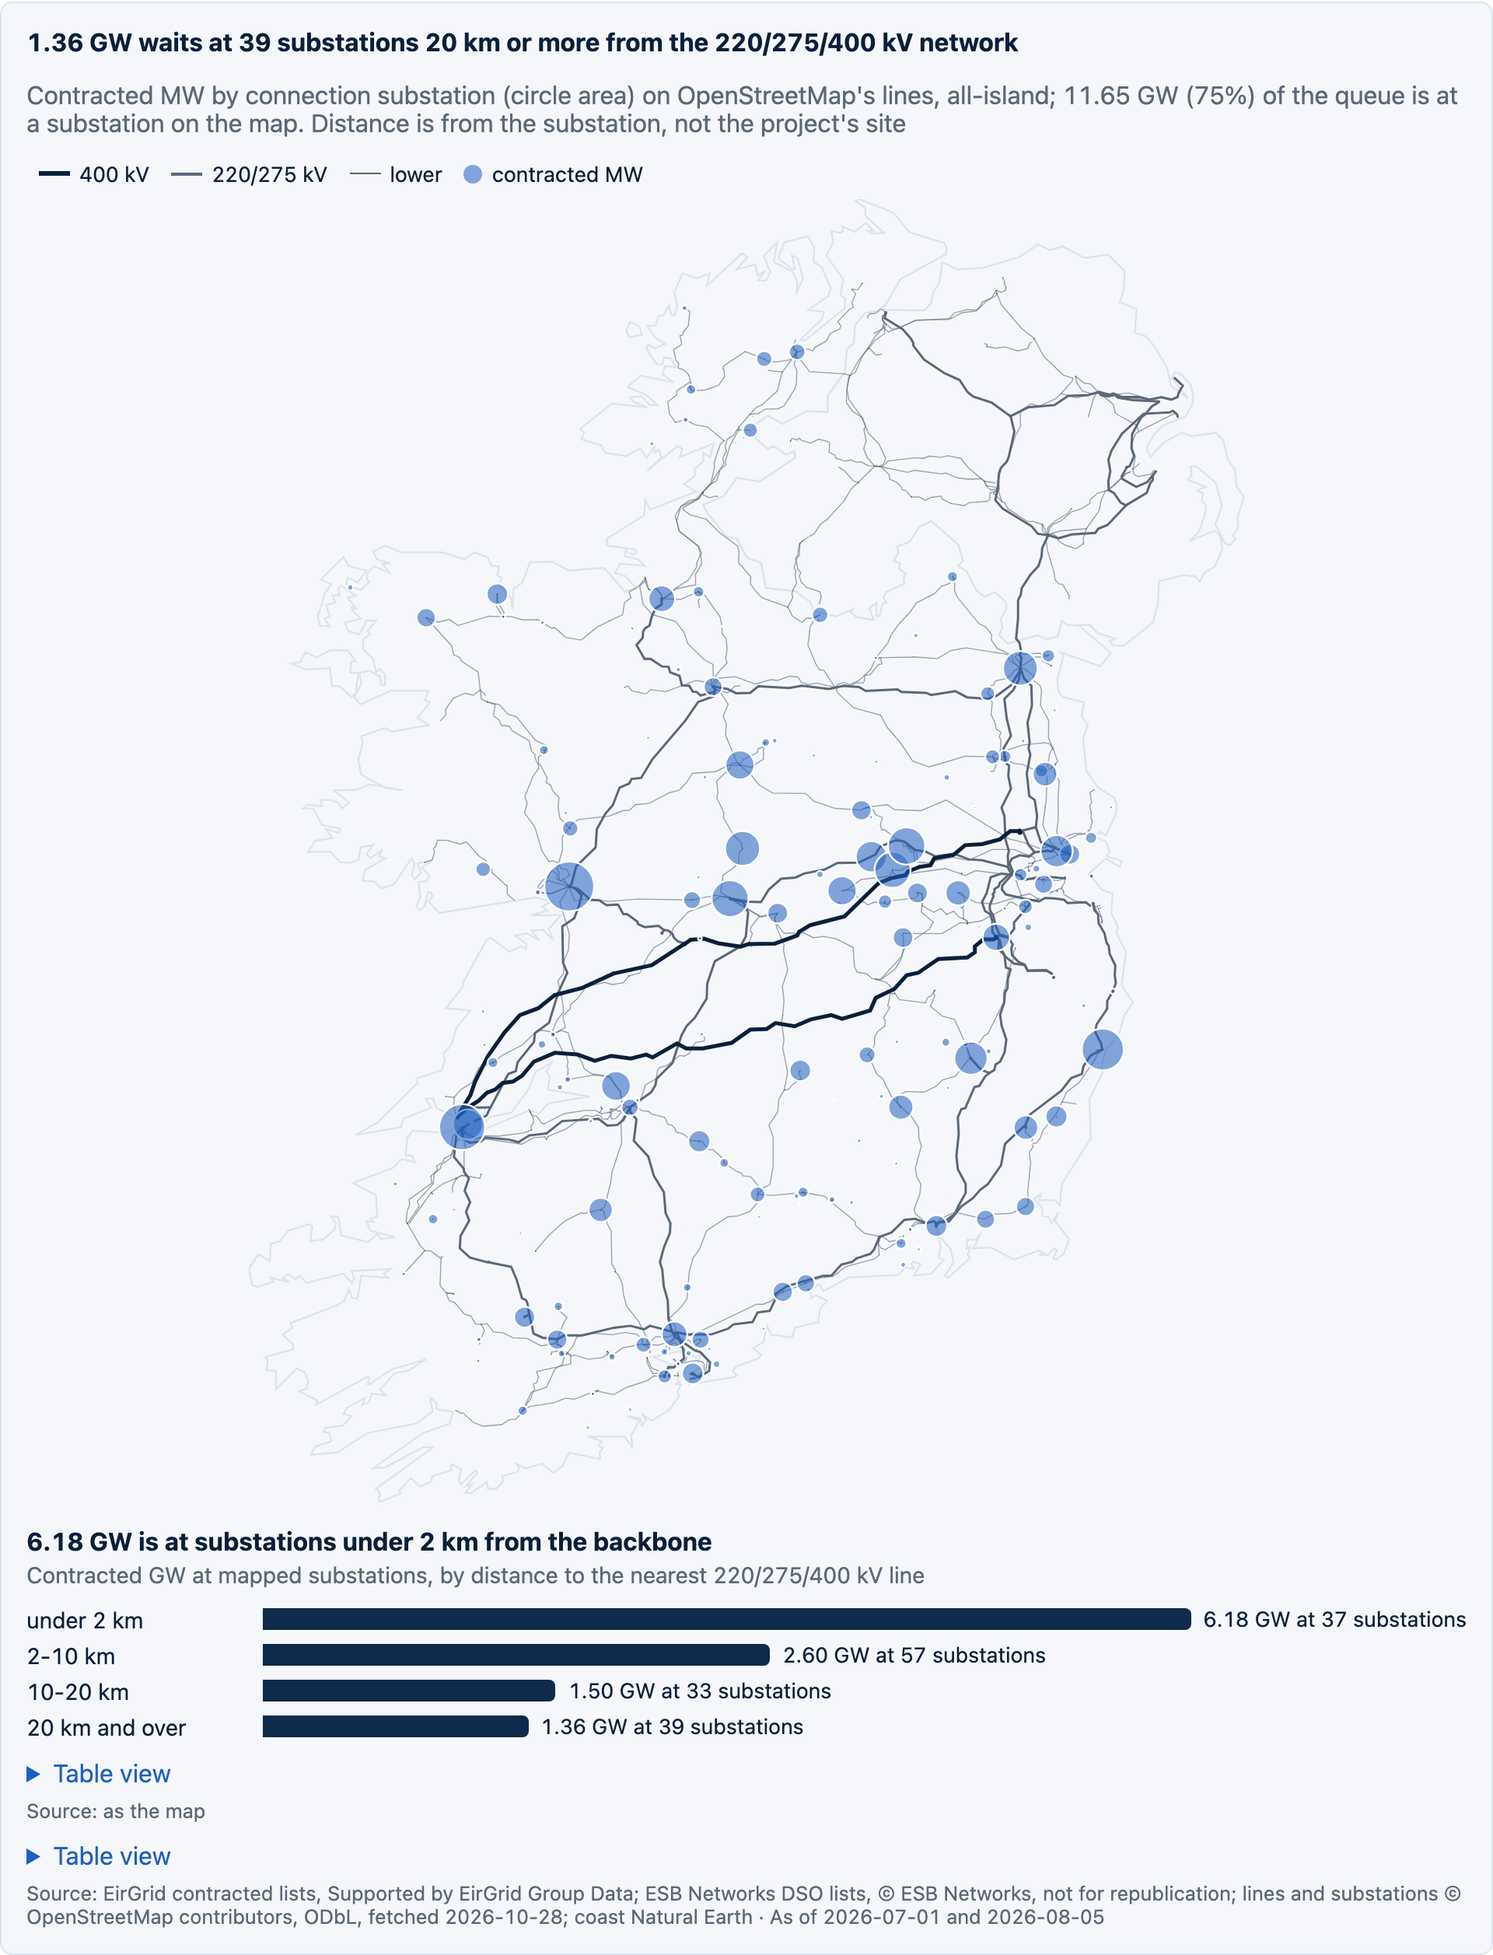
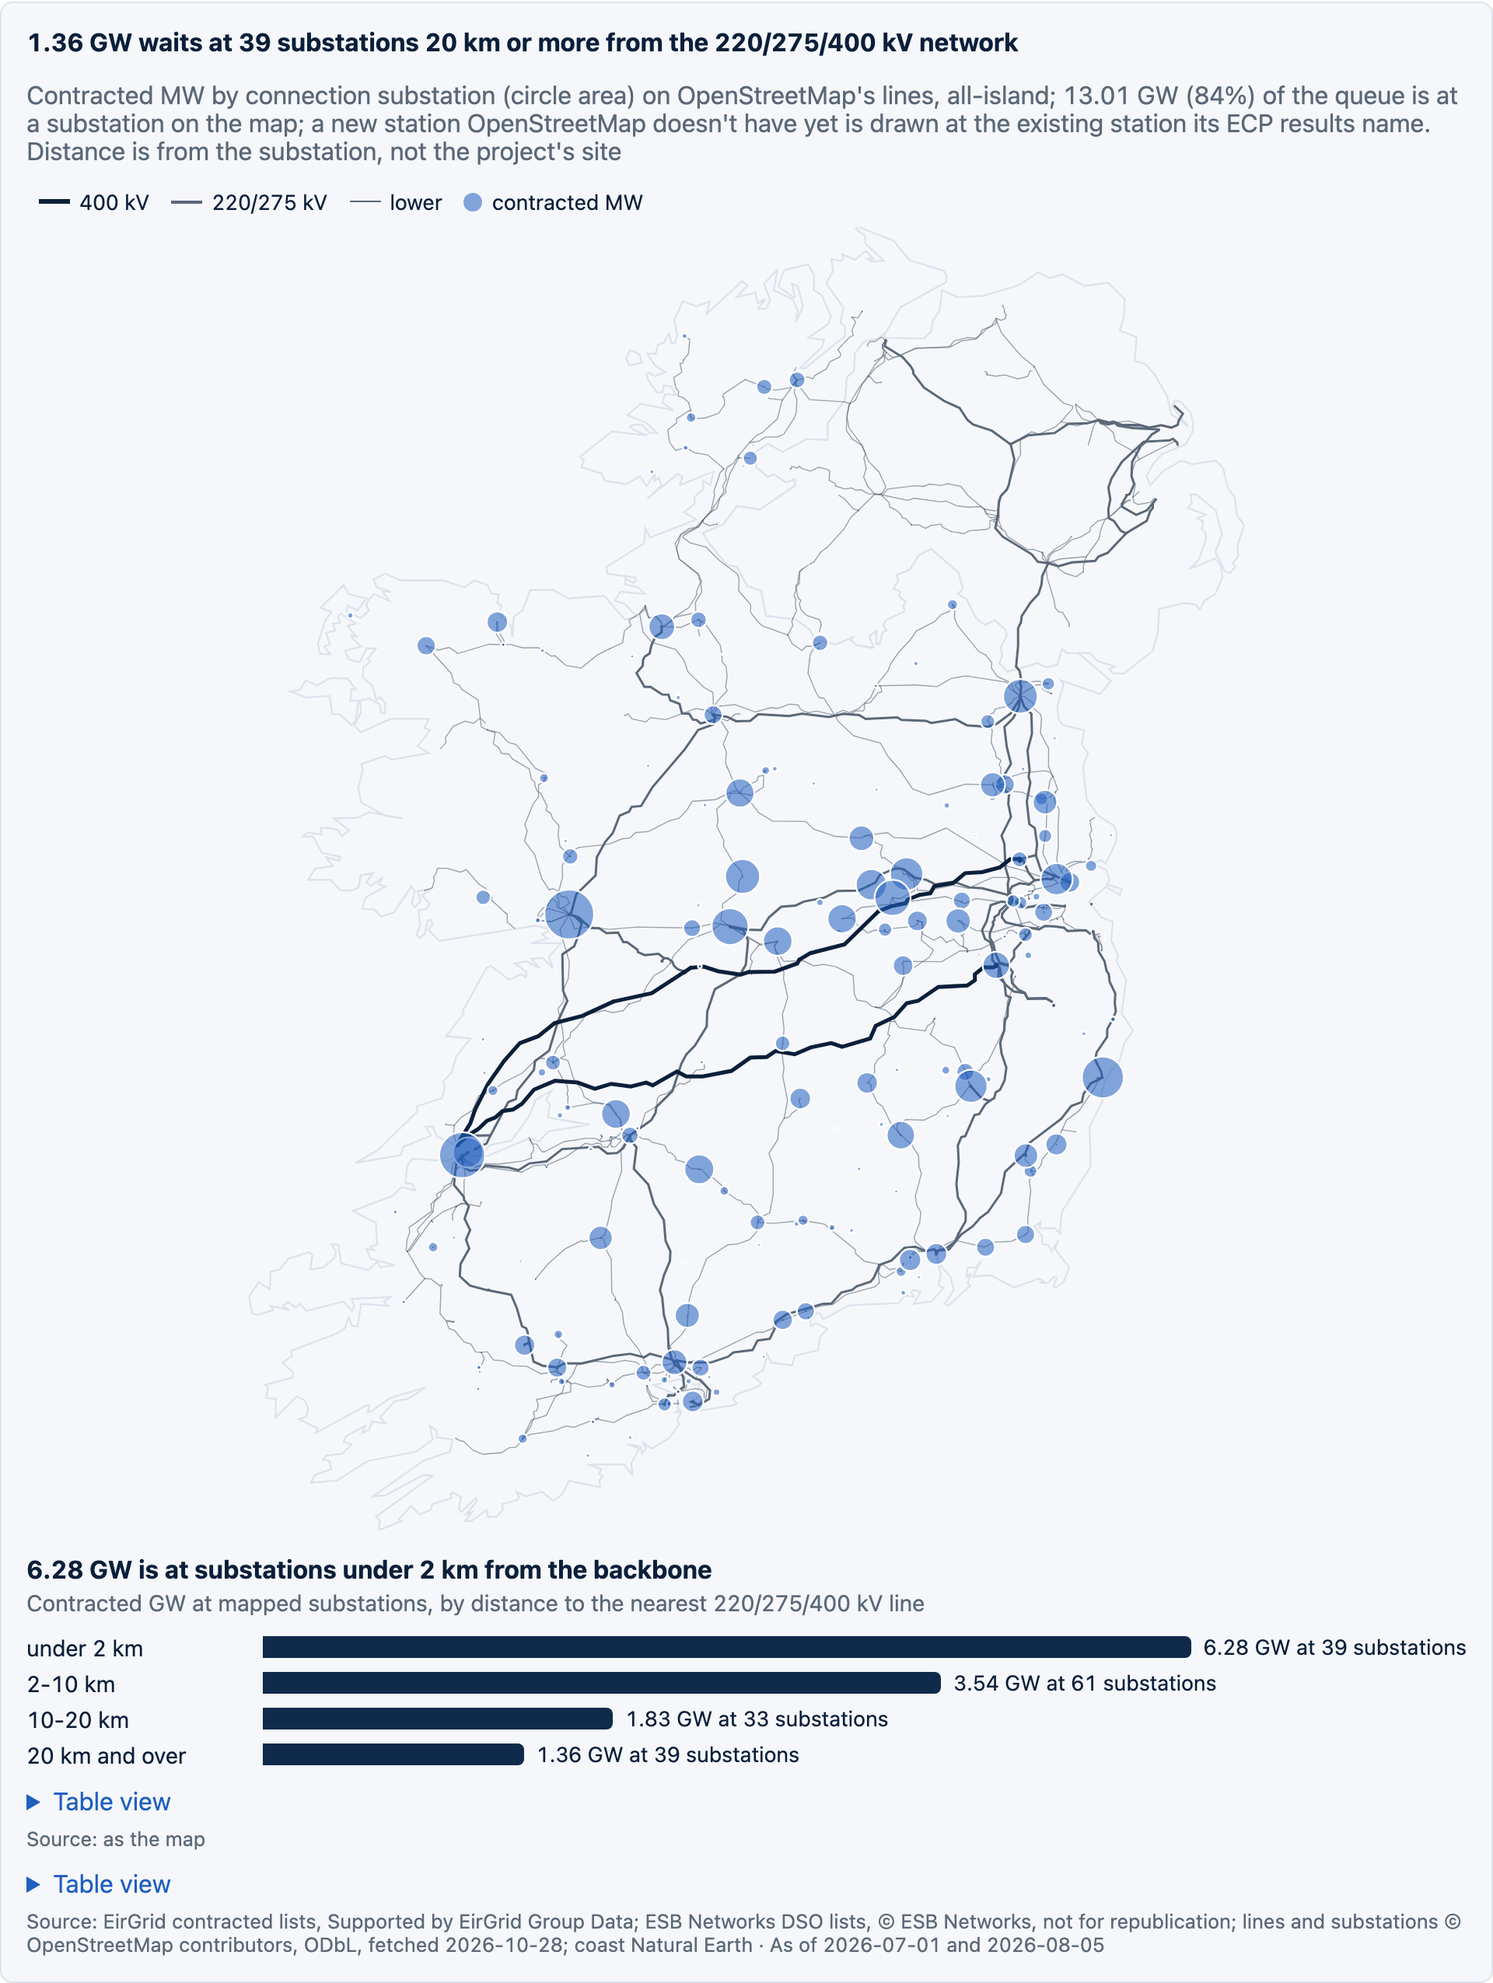
Settle the two county conflicts; the ECP results' node places new stations on the map
Both conflicts are settled by the stored ECP results. Eastmont DC 1 is in Cork
(ECP-2.3: node Castleview), so g4's OSM answer (Artane, Dublin) was wrong: a cited
row fixes it at the next counties build. Kilmorna Energy Storage is in Kerry (ECP-2.4:
node Knockanure), so EirGrid's list prints the wrong node (Kinnegad): the map now
compares each transmission project's list node with its results node and, when both
are on the map more than 40 km apart, draws neither and lists the conflict. Of the
102 projects the results cover, Kilmorna is the only one. Where the list's node is a
new station OSM doesn't have, the project is drawn at the existing station its results
name: 20 projects, the map from 75% to 84% of contracted MW.

diff --git a/site/components/Dashboard.tsx b/site/components/Dashboard.tsx
@@ -345,7 +345,7 @@ export function Dashboard({ report }: { report: Report }) {
             <Figure
               id="fig-map"
               title={`${gw(grid.far_gw)} waits at ${grid.far_nodes} substations ${grid.far_km} km or more from the ${grid.backbone_kv.join("/")} kV network`}
-              subtitle={`Contracted MW by connection substation (circle area) on OpenStreetMap's lines, all-island; ${gw(grid.placed_gw)}${grid.placed_share === null ? "" : ` (${pct(grid.placed_share)})`} of the queue is at a substation on the map. Distance is from the substation, not the project's site`}
+              subtitle={`Contracted MW by connection substation (circle area) on OpenStreetMap's lines, all-island; ${gw(grid.placed_gw)}${grid.placed_share === null ? "" : ` (${pct(grid.placed_share)})`} of the queue is at a substation on the map; a new station OpenStreetMap doesn't have yet is drawn at the existing station its ECP results name. Distance is from the substation, not the project's site`}
               footer={`Source: ${EIRGRID}; ${ESB}; lines and ${OSM}, fetched ${grid.osm_fetched_at.slice(0, 10)}; coast Natural Earth${asOf(report.editions, [...TSO_IDS, ...DSO_CONTRACTED])}`}
               table={{
                 headings: ["Substation", "kV", "Contracted", "Projects", `To ${grid.backbone_kv.join("/")} kV`],
@@ -377,7 +377,9 @@ export function Dashboard({ report }: { report: Report }) {
             {grid.unplaced.length > 0 && (
               <div className="card">
                 <h3>Not on the map: substations OpenStreetMap doesn&apos;t name yet</h3>
-                <p className="muted">Mostly new stations. Their MW is counted above, not drawn.</p>
+                <p className="muted">
+                  Mostly new stations. Their MW is counted above, not drawn. A project whose list and ECP results name stations far apart is listed here too, under both names.
+                </p>
                 <ProjectTable
                   label="Substations not on the map"
                   noRef

diff --git a/site/lib/report.ts b/site/lib/report.ts
@@ -26,6 +26,7 @@ export type Grid = {
     match: string;
     km_backbone: number | null;
   }[];
+  conflicts?: { ref: string; name: string; mw: number; list_node: string; results_node: string; km: number }[];
   unplaced: { node: string; mw: number }[];
   lines: { kv: number; path: number[][] }[];
   outline: number[][][];

diff --git a/src/iegrid/grid.py b/src/iegrid/grid.py
@@ -16,6 +16,14 @@ over, and a distribution project's feeding station must be within PARENT_KM of i
 110 kV station when that station is on the map. A distribution project whose feeding
 station isn't found is drawn at its 110 kV station ('parent'). A name OSM gives to
 several substations far apart is not placed (ambiguous).
+
+The ECP batch results give a node too, for the projects they list (matched by name and
+MEC, as in region.by_name). It is often the existing station a new one ties into
+(Castlebanny: list node Kilvinoge, results node Waterford), so it is used two ways:
+a transmission project whose own node isn't on the map is drawn at the results' node
+('ecp'), and one whose two nodes are both on the map but more than CONFLICT_KM apart
+is not drawn at all (Kilmorna Energy Storage: Kinnegad on the list, Knockanure in
+Kerry in the results) and is listed as a conflict.
 Distance is from the substation to the nearest line of BACKBONE_KV, all-island (the
 north's backbone is 275 kV): how far the queued MW sits from the transmission
 backbone. It is not the length of the project's own cable.
@@ -33,6 +41,7 @@ import urllib.request
 from collections import defaultdict
 from dataclasses import dataclass
 from datetime import UTC, datetime
+from decimal import Decimal
 from itertools import pairwise
 from pathlib import Path
 
@@ -51,6 +60,7 @@ BACKBONE_KV = (220, 275, 400)
 MIN_SUBSTATION_KV = 38
 TSO_MIN_KV = 110
 PARENT_KM = 40          # a feeding station hangs off a 110 kV station nearby
+CONFLICT_KM = 40        # list node and ECP-results node this far apart: one is wrong
 PREFIX_MIN = 6
 SAME_PLACE_KM = 2.0     # two OSM objects of one name this close are one substation
 FAR_KM = 20             # "far from the backbone", printed with the number it gives
@@ -227,34 +237,93 @@ def place(tso: bool, node: str, station: str,
     return s, how
 
 
+def ecp_nodes(con) -> dict[tuple[str, ...], list[tuple[str, Decimal]]]:
+    """{name key: [(node, MEC)]} from the ECP batch results, rows that name a node
+    (some give a grid reference instead, which isn't a node)."""
+    from iegrid import ecp
+
+    out: dict[tuple[str, ...], list[tuple[str, Decimal]]] = defaultdict(list)
+    for name, node, mw in con.execute(
+            "select name, node, mec_mw from ecp_row where reader_version = ? and node <> ''",
+            [ecp.READER_VERSION]).fetchall():
+        if re.search(r"[a-z]", node, re.IGNORECASE) and (k := region.key(name)):
+            out[k].append((node, mw))
+    return out
+
+
+def results_node(name: str, mw, ecp: dict) -> str | None:
+    """The one node the ECP results give this project (same name key, close MEC)."""
+    found = {region.norm_node(n) for n, m in ecp.get(region.key(name), [])
+             if region.mec_close(m, Decimal(str(mw)))}
+    return found.pop() if len(found) == 1 else None
+
+
 # --- what the report shows ----------------------------------------------------------
 
-def nodes(con, cache: Path = CACHE) -> dict:
-    lines, subs, fetched_at = load(cache)
-    idx = _index(subs)
-    backbone = [ln for ln in lines if ln.kv in BACKBONE_KV]
+@dataclass(frozen=True)
+class Placement:
+    ref: str
+    name: str
+    tso: bool
+    mw: float
+    label: str                  # the node as the list gives it, for the unplaced table
+    at: Substation | None
+    how: str                    # exact, prefix, parent, ecp; or none, ambiguous, conflict
+    conflict: dict | None = None
+
+
+def placements(con, idx: dict[str, list[Substation]], ecp: dict) -> list[Placement]:
+    """Where each contracted row (interconnectors left out) is drawn, if anywhere."""
     rows = con.execute(f"""
-        select p.source_id like 'eirgrid%', r.node, r.station_110kv, r.mec_mw
+        select p.source_id like 'eirgrid%', r.node, r.station_110kv, r.mec_mw, r.project_ref,
+               r.name
         from project_row r join ({store.LATEST_LIVE}) l using (publication_id)
         join publication p using (publication_id)
         where p.source_id like '%contracted%' and r.parser_version = {int(parse.PARSER_VERSION)}
           and coalesce(r.technology, '') <> 'Interconnector'
     """).fetchall()
+    out = []
+    for tso, node, station, mw, ref, name in rows:
+        label = (node or station or "").strip() or "(no node)"
+        s, how = place(tso, node or "", station or "", idx)
+        conflict = None
+        if tso and (rn := results_node(name or "", mw, ecp)):
+            e, _ = match(rn, idx, TSO_MIN_KV)
+            if s is None and e is not None:
+                s, how = e, "ecp"
+            elif s is not None and e is not None and (
+                    km := km_between((s.lon, s.lat), (e.lon, e.lat))) > CONFLICT_KM:
+                conflict = {"ref": ref, "name": name, "mw": round(float(mw), 1),
+                            "list_node": s.name, "results_node": e.name, "km": round(km)}
+                label = f"{(node or '').strip()} (list) or {rn.title()} (ECP results)"
+                s, how = None, "conflict"
+        out.append(Placement(ref, name or "", bool(tso), float(mw), label, s, how, conflict))
+    return out
+
+
+def nodes(con, cache: Path = CACHE, ecp: dict | None = None) -> dict:
+    lines, subs, fetched_at = load(cache)
+    idx = _index(subs)
+    backbone = [ln for ln in lines if ln.kv in BACKBONE_KV]
+    ecp = ecp_nodes(con) if ecp is None else ecp
     at: dict[str, dict] = {}
     unplaced: dict[str, float] = defaultdict(float)
+    conflicts: list[dict] = []
     total = 0.0
-    for tso, node, station, mw in rows:
-        total += float(mw)
-        s, how = place(tso, node or "", station or "", idx)
+    for pl in placements(con, idx, ecp):
+        total += pl.mw
+        if pl.conflict:
+            conflicts.append(pl.conflict)
+        s = pl.at
         if s is None:
-            unplaced[(node or station or "").strip() or "(no node)"] += float(mw)
+            unplaced[pl.label] += pl.mw
             continue
         n = at.setdefault(s.name, {"node": s.name, "kv": s.kv, "lon": round(s.lon, 4),
                                    "lat": round(s.lat, 4), "mw": 0.0, "projects": 0,
-                                   "tso_mw": 0.0, "match": how})
-        n["mw"] += float(mw)
+                                   "tso_mw": 0.0, "match": pl.how})
+        n["mw"] += pl.mw
         n["projects"] += 1
-        n["tso_mw"] += float(mw) if tso else 0.0
+        n["tso_mw"] += pl.mw if pl.tso else 0.0
     for n in at.values():
         d = km_to_lines((n["lon"], n["lat"]), backbone)
         n["km_backbone"] = round(d, 1) if d is not None else None
@@ -283,6 +352,7 @@ def nodes(con, cache: Path = CACHE) -> dict:
         "far_gw": bands[-1]["gw"],      # the last band: FAR_KM and over
         "far_nodes": bands[-1]["nodes"],
         "nodes": sorted(at.values(), key=lambda n: -n["mw"]),
+        "conflicts": conflicts,
         "unplaced": [{"node": k, "mw": round(v, 1)}
                      for k, v in sorted(unplaced.items(), key=lambda kv: -kv[1])],
         "lines": [{"kv": ln.kv, "path": [[round(x, 3), round(y, 3)] for x, y in simplify(ln.path)]}

diff --git a/tests/test_grid.py b/tests/test_grid.py
@@ -90,10 +90,10 @@ def test_every_mw_is_placed_or_listed_as_unplaced(tmp_path, monkeypatch):
             return self
 
         def fetchall(self):
-            return [(True, "Cashla", "", 100), (True, "Cashla 220kV", "", 50),
-                    (False, "Nowhere", "", 25), (False, "", "", 5)]
+            return [(True, "Cashla", "", 100, "TG1", "A"), (True, "Cashla 220kV", "", 50, "TG2", "B"),
+                    (False, "Nowhere", "", 25, "DG1", "C"), (False, "", "", 5, "DG2", "D")]
 
-    out = grid.nodes(Con(), cache)
+    out = grid.nodes(Con(), cache, ecp={})
     placed = sum(n["mw"] for n in out["nodes"])
     unplaced = sum(u["mw"] for u in out["unplaced"])
     assert (placed, unplaced) == (150, 30)
@@ -122,8 +122,35 @@ def test_far_and_the_last_band_are_one_rule(tmp_path):
             return self
 
         def fetchall(self):
-            return [(True, "Edge", "", 10)]
+            return [(True, "Edge", "", 10, "TG1", "Edge Solar")]
 
-    out = grid.nodes(Con(), cache)
+    out = grid.nodes(Con(), cache, ecp={})
     assert out["nodes"][0]["km_backbone"] == 20.0
     assert (out["far_gw"], out["far_nodes"]) == (out["bands"][-1]["gw"], 1)
+
+
+def test_the_ecp_results_node_places_a_new_station_and_catches_a_wrong_one():
+    from decimal import Decimal
+
+    waterford = S("Waterford 110kV Substation", 110, -7.10, 52.25)
+    kinnegad = S("Kinnegad 110kV", 110, -7.14, 53.43)
+    knockanure = S("Knockanure 220kV Substation", 220, -9.40, 52.48)
+    i = idx(waterford, kinnegad, knockanure)
+    ecp = {grid.region.key("Castlebanny Wind Farm"): [("Waterford", Decimal("138.6"))],
+           grid.region.key("Kilmorna Energy Storage Facility"): [("Knockanure", Decimal(170))]}
+
+    class Con:
+        def execute(self, sql):
+            return self
+
+        def fetchall(self):
+            return [(True, "Kilvinoge", "", 138.6, "TG541", "Castlebanny Wind Farm"),
+                    (True, "Kinnegad", "", 170.0, "TG485", "Kilmorna Energy Storage Facility")]
+
+    got = {p.ref: p for p in grid.placements(Con(), i, ecp)}
+    # a new station OSM doesn't have: drawn at the station the results name
+    assert (got["TG541"].at, got["TG541"].how) == (waterford, "ecp")
+    # list and results 185 km apart: one of them is wrong, so it isn't drawn
+    assert (got["TG485"].at, got["TG485"].how) == (None, "conflict")
+    assert got["TG485"].conflict["km"] > grid.CONFLICT_KM
+    assert got["TG485"].label == "Kinnegad (list) or Knockanure (ECP results)"

diff --git a/PARKING.md b/PARKING.md
@@ -52,3 +52,4 @@ Format: `date | item | what would settle it | stone`
 - 2026-10-29 | g8's done-when is four real weekly runs, one with a new file. Two test runs on a copy of the store (2026-10-29, both ok, no new file) show the job works end to end; the real log starts with the owner's first `ops/weekly.sh` | four weeks of runs by the owner (ESB's next quarterly list, as of 1 Oct, is due about the end of October) | g8
 - 2026-10-29 | No scheduler is installed (the owner runs jobs by hand). A launchd agent would be ops/ + one plist, as in the record | owner asks for it | after g8
 - 2026-10-29 | g8 review: the ECP batch results were read only in a week that stored a file, so a failed download wasn't retried until the next list (a quarter); now read when due (a publication since the last clean read), and a failed read stays due. Also fixed: two runs in one minute overwrote one report (now a seconds stem, never an overwrite), a report whose page couldn't be drawn left its JSON behind (now page first, JSON renamed into place), the run-log query hid any error as 'no runs' (now only a missing table), the docstring didn't say ECP and load read errors are 'attention', clean runs couldn't be picked out (problems and notes are separate columns), and the heading now says its counts are before this report | (settled) | g8
+- 2026-10-29 | The two county conflicts, checked against the stored ECP results: DG2024 Eastmont DC 1 is in Cork (ECP-2.3 results: Eastmont DC Generators, Cork, node Castleview), so g4 was wrong (an OSM hit on the Castleview area of Artane, Dublin); fixed with a cited row. TG485 Kilmorna Energy Storage is in Kerry (ECP-2.4 results: node Knockanure), so EirGrid's list prints the wrong node (Kinnegad); the map no longer draws it and lists it as a conflict. Comparing list and results nodes for all 102 transmission projects the results cover finds no other conflict over 40 km; the results' node now places 20 projects at new stations OSM lacks (map 75% -> 84% of MW) | (settled) | g4/g7b

diff --git a/README.md b/README.md
@@ -14,7 +14,7 @@ From the report of 28 Oct 2026, with lists as of 5 Aug 2026 (transmission) and 1
 - 14.69 GW is contracted on transmission (158 projects) and 1.96 GW on distribution (177), not yet energised.
 - Three years after its results, ECP-1 had 10% of its distribution MW energised; no later batch passed 1%.
 - Offaly holds the most contracted generation (1.68 GW); 95% of generation MW is placed in a county.
-- 1.36 GW waits at 39 substations 20 km or more from the all-island 220/275/400 kV network; 6.18 GW is under 2 km from it.
+- 1.36 GW waits at 39 substations 20 km or more from the all-island 220/275/400 kV network; 6.28 GW is under 2 km from it.
 
 The charts below are from the dashboard (`site/`), each with its finding as the title.
 
@@ -31,7 +31,7 @@ The charts below are from the dashboard (`site/`), each with its finding as the 
 
 ![Share of each ECP batch energised three years after its results](docs/img/burndown.png)
 
-**Where.** Each circle is a connection substation, sized by the MW waiting there, on OpenStreetMap's 110 kV and higher lines. 75% of contracted MW is at a substation OpenStreetMap names; the rest, mostly at new stations, is listed under the map.
+**Where.** Each circle is a connection substation, sized by the MW waiting there, on OpenStreetMap's 110 kV and higher lines. 84% of contracted MW is on the map: at a substation OpenStreetMap names, or for a new station, at the existing station its ECP results name. The rest is listed under the map.
 
 ![Contracted MW by substation on the grid, with distance to the 220/275/400 kV network](docs/img/map.png)
 ![Contracted GW by county](docs/img/counties.png)
